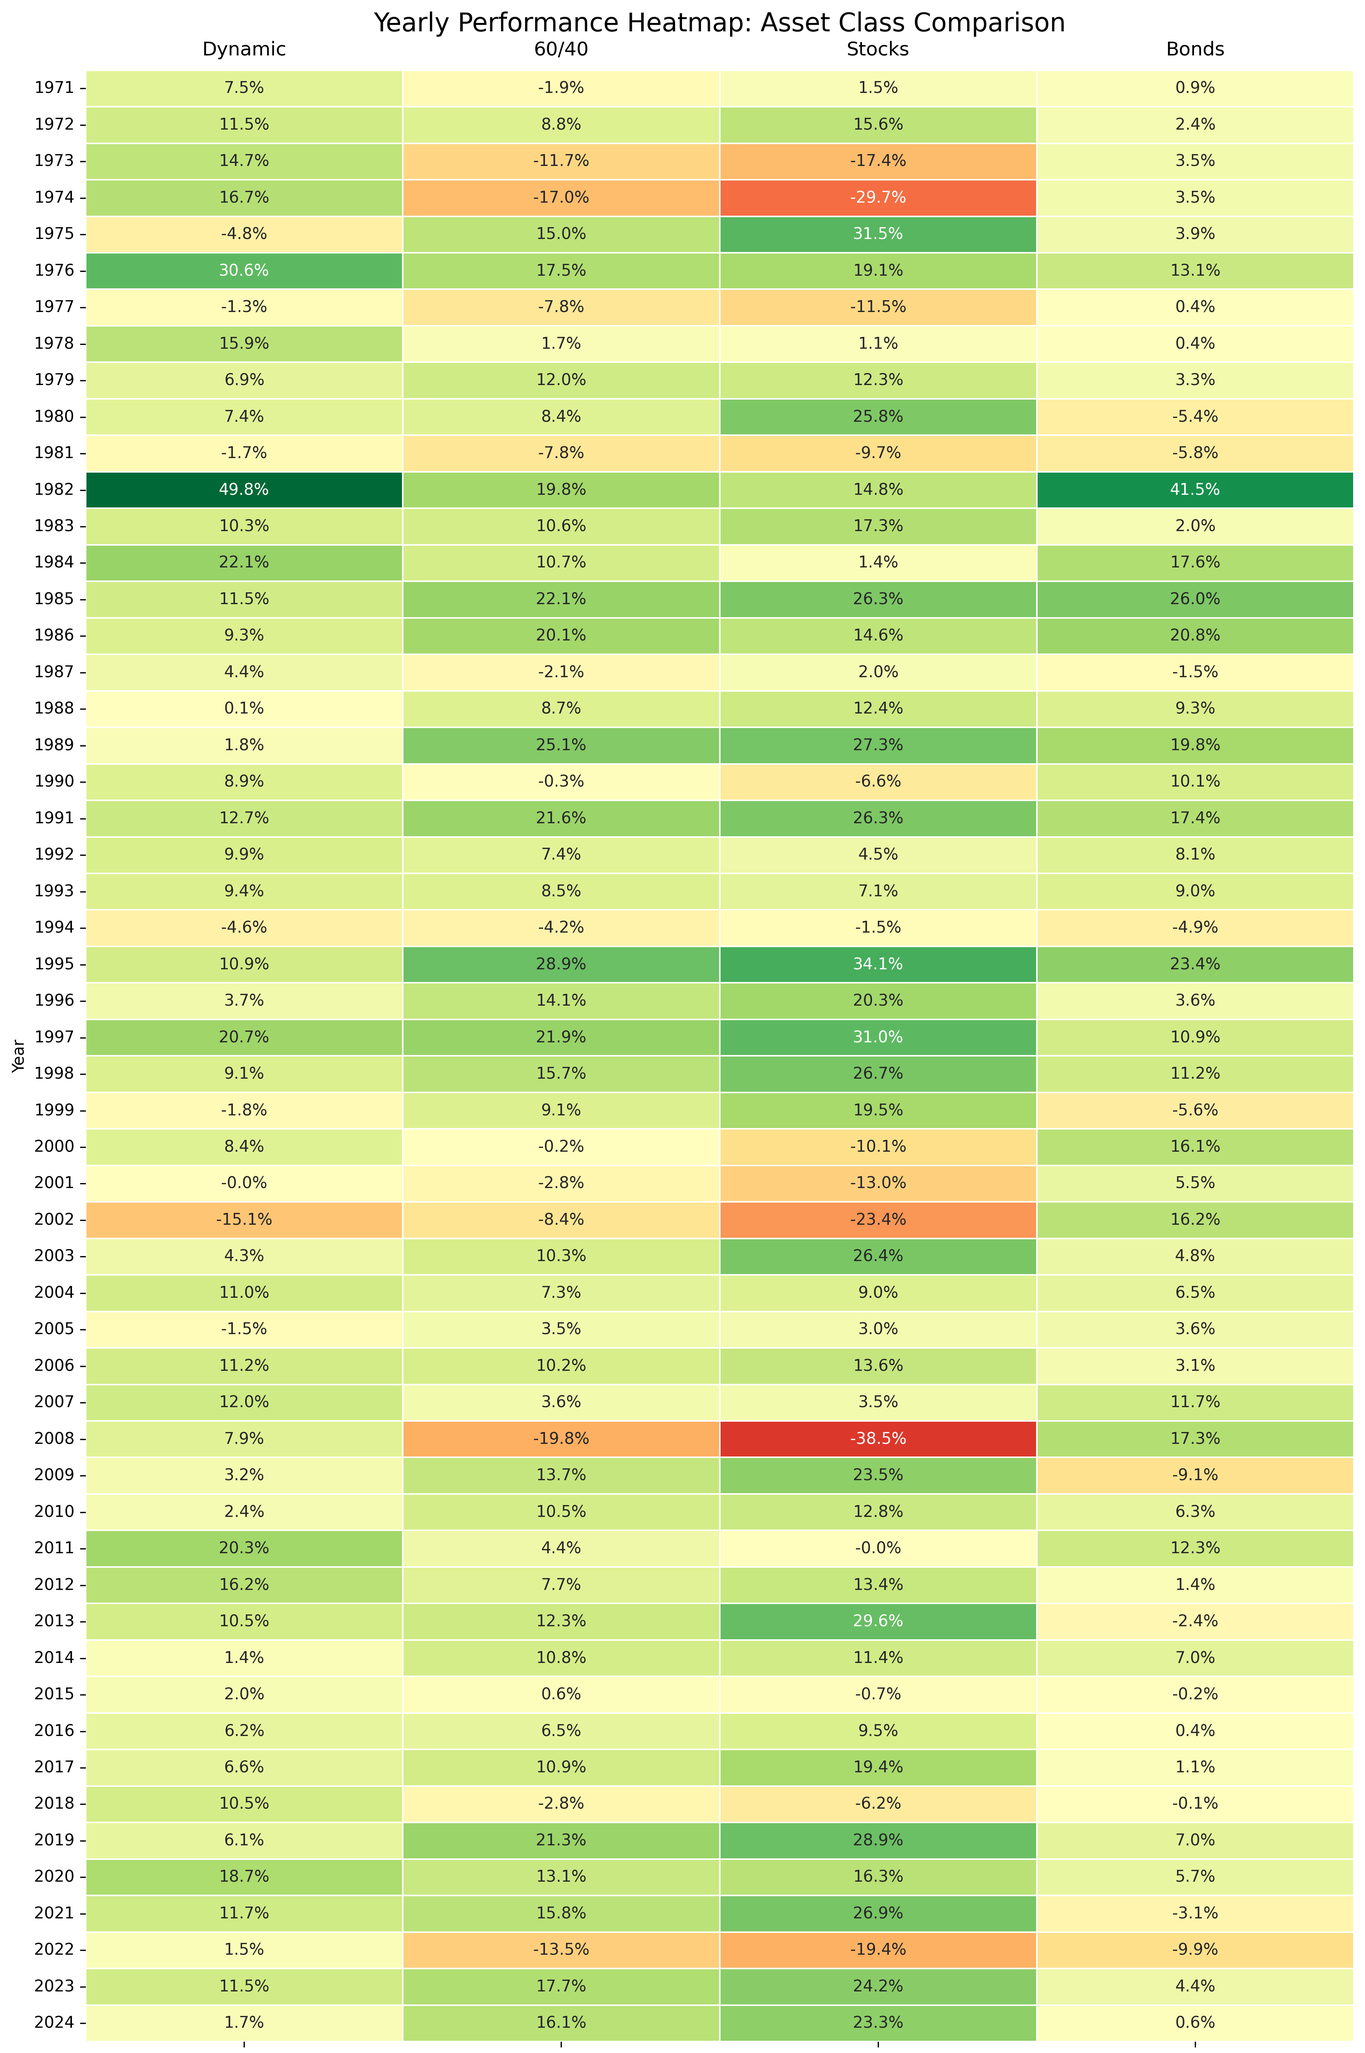
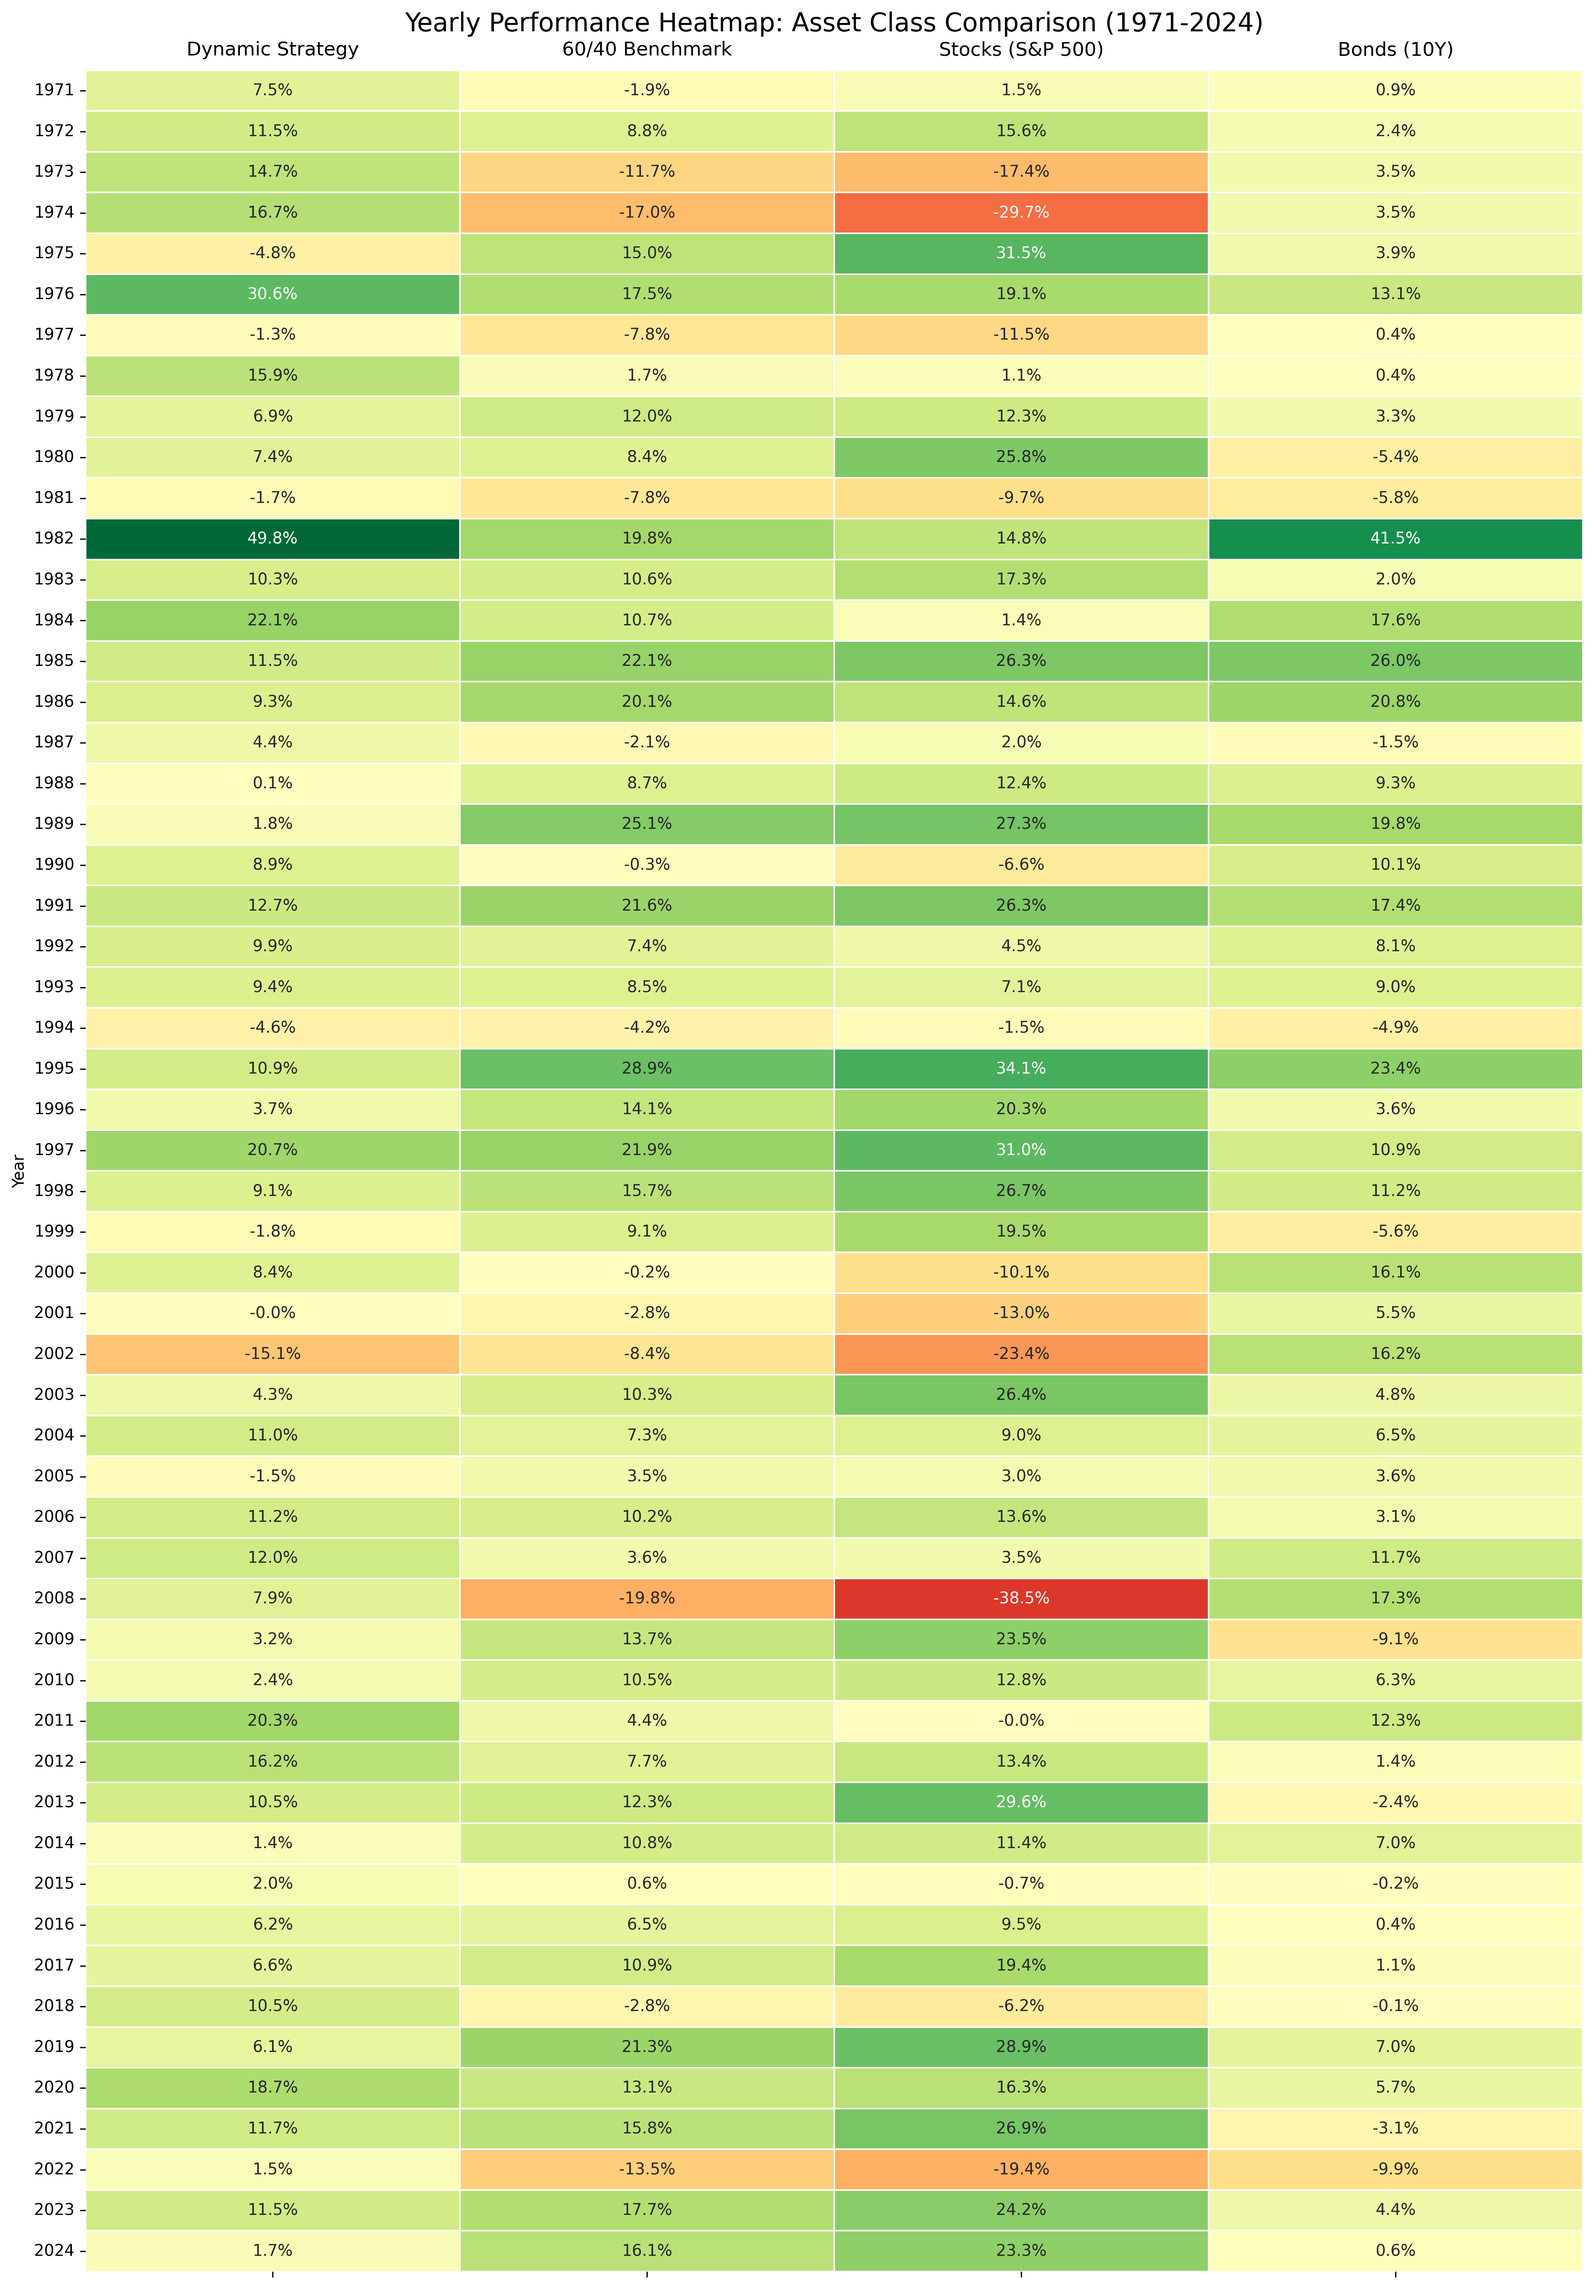
Changed for consistency with the new rebased equity dataframe

diff --git a/12_yearly_analysis.py b/12_yearly_analysis.py
@@ -13,31 +13,26 @@ results_dir = os.path.join(base_dir, 'results')
 os.makedirs(fig_dir, exist_ok=True)
 os.makedirs(results_dir, exist_ok=True)
 
-# 2. Load Data (All Components)
-print("Loading Data...")
-dyn_df = pd.read_csv(os.path.join(mod_dir, 'final_backtest_results.csv'), index_col='date', parse_dates=True)
-comp_df = pd.read_csv(os.path.join(mod_dir, 'benchmark_portfolio_1970_2025.csv'), index_col='date', parse_dates=True)
+# 2. Load Consolidated Data
+print("Loading Consolidated Data...")
+# We use the rebased file to ensure 1971 returns are calculated from a clean 1.0 base
+df = pd.read_csv(os.path.join(mod_dir, 'consolidated_portfolio_rebased.csv'), index_col='date', parse_dates=True)
 
-# Merge Equity Curves
-df = pd.DataFrame(index=dyn_df.index)
-df['Dynamic'] = dyn_df['Dynamic_Equity']
-df['60/40'] = dyn_df['60_40_Equity']
-# Align Stocks/Bonds to the same start date
-common_index = df.index.intersection(comp_df.index)
-df['Stocks'] = comp_df.loc[common_index, 'Stock_Equity']
-df['Bonds'] = comp_df.loc[common_index, 'Bond_Equity']
+# Select Equity Columns
+equity_cols = ['Dynamic_Equity', '60_40_Equity', 'Stock_Equity', 'Bond_Equity']
+df = df[equity_cols]
+
+# Rename for clean display
+df.columns = ['Dynamic Strategy', '60/40 Benchmark', 'Stocks (S&P 500)', 'Bonds (10Y)']
 
 # 3. Calculate Yearly Returns
 yearly_equity = df.resample('YE').last()
 yearly_returns = yearly_equity.pct_change()
 
-# Handle First Year (Manual Calculation from 1.0 base or first available)
-# Since curves start > 1.0 sometimes due to indexing, pct_change is safer, 
-# but for the very first row, we check the growth from the start of data.
+# Handle First Year (1971)
+# Since our data starts at 1.0 in April 1971, the return for 1971 is (End_Value / 1.0) - 1
 first_idx = yearly_returns.index[0]
-start_val = df.iloc[0]
-end_val = yearly_equity.iloc[0]
-yearly_returns.loc[first_idx] = (end_val / start_val) - 1
+yearly_returns.loc[first_idx] = yearly_equity.loc[first_idx] - 1
 
 yearly_returns.index = yearly_returns.index.year
 
@@ -47,13 +42,15 @@ print(yearly_returns.tail())
 yearly_returns.to_csv(os.path.join(results_dir, 'yearly_returns_comprehensive.csv'))
 
 # 4. Visualization (Heatmap)
-plt.figure(figsize=(12, 18)) # Wider and Taller
+plt.figure(figsize=(14, 20)) # Wider to accommodate 4 columns
 
 sns.heatmap(yearly_returns, annot=True, fmt=".1%", cmap='RdYlGn', center=0, cbar=False, linewidths=0.5)
 
-plt.title('Yearly Performance Heatmap: Asset Class Comparison', fontsize=16)
+start_year = yearly_returns.index[0]
+end_year = yearly_returns.index[-1]
+plt.title(f'Yearly Performance Heatmap: Asset Class Comparison ({start_year}-{end_year})', fontsize=16)
 plt.ylabel('Year')
-plt.tick_params(axis='x', labelsize=12, labeltop=True, labelbottom=False) # Put labels on top for readability
+plt.tick_params(axis='x', labelsize=12, labeltop=True, labelbottom=False)
 plt.tight_layout()
 
 save_path = os.path.join(fig_dir, 'yearly_heatmap_comprehensive.png')
